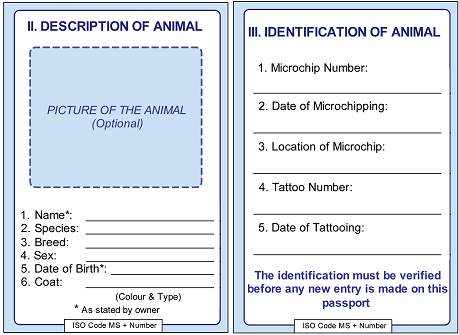
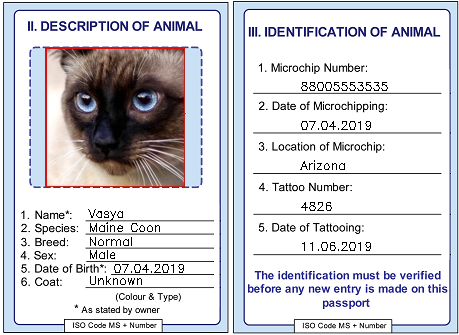
practice1

diff --git a/practice/1_opencv/cat_passport.py b/practice/1_opencv/cat_passport.py
@@ -1,3 +1,4 @@
+import sys
 import argparse
 import cv2
 
@@ -6,22 +7,68 @@ def make_cat_passport_image(input_image_path, haar_model_path):
 
     # Read image
 
+    image = cv2.imread(input_image_path)
+
     # Convert image to grayscale
 
+    gray = cv2.cvtColor(image, cv2.COLOR_BGR2GRAY)
+
     # Normalize image intensity
+
+    gray = cv2.equalizeHist(gray)
 
     # Resize image
 
     # Detect cat faces using Haar Cascade
 
+    detector = cv2.CascadeClassifier(haar_model_path)
+    rects = detector.detectMultiScale(gray, scaleFactor=1.1, minNeighbors=5, minSize=(75, 75))
+
     # Draw bounding box
+
+    for (i, (x, y, w, h)) in enumerate(rects):
+        cv2.rectangle(image, (x, y), (x + w, y + h), (0, 0, 255), 2)
+        cv2.putText(image, "Cat #{}".format(i + 1), (x, y - 10),
+                    cv2.FONT_HERSHEY_SIMPLEX, 0.55, (0, 0, 255), 2)
 
     # Display result image
 
+    cv2.imshow("window_name", image)
+    cv2.waitKey(0)
+    cv2.destroyAllWindows()
+
     # Crop image
+
+    x, y, w, h = rects[0]
+    image = image[y:y + h, x:x + w]
 
     # Save result image to file
 
+    cv2.imwrite('out.jpg', image)
+
+    image = cv2.imread('pet_passport.png')
+    src = cv2.imread('out.jpg')
+    image[47:47+src.shape[0], 45:45+src.shape[1]] = src
+
+    cv2.putText(image, "Vasya", (88, 217), cv2.FONT_HERSHEY_SIMPLEX, 0.4, (0, 0, 0), 1)
+    cv2.putText(image, "Maine Coon", (88, 231), cv2.FONT_HERSHEY_SIMPLEX, 0.4, (0, 0, 0), 1)
+    cv2.putText(image, "Normal", (88, 245), cv2.FONT_HERSHEY_SIMPLEX, 0.4, (0, 0, 0), 1)
+    cv2.putText(image, "Male", (88, 258), cv2.FONT_HERSHEY_SIMPLEX, 0.4, (0, 0, 0), 1)
+    cv2.putText(image, "07.04.2019", (113, 272), cv2.FONT_HERSHEY_SIMPLEX, 0.4, (0, 0, 0), 1)
+    cv2.putText(image, "Unknown", (88, 284), cv2.FONT_HERSHEY_SIMPLEX, 0.4, (0, 0, 0), 1)
+
+    cv2.putText(image, "88005553535", (300, 90), cv2.FONT_HERSHEY_SIMPLEX, 0.4, (0, 0, 0), 1)
+    cv2.putText(image, "07.04.2019", (300, 129), cv2.FONT_HERSHEY_SIMPLEX, 0.4, (0, 0, 0), 1)
+    cv2.putText(image, "Arizona", (300, 169), cv2.FONT_HERSHEY_SIMPLEX, 0.4, (0, 0, 0), 1)
+    cv2.putText(image, "4826", (300, 210), cv2.FONT_HERSHEY_SIMPLEX, 0.4, (0, 0, 0), 1)
+    cv2.putText(image, "11.06.2019", (300, 250), cv2.FONT_HERSHEY_SIMPLEX, 0.4, (0, 0, 0), 1)
+
+    cv2.imshow("window_name", image)
+    cv2.waitKey(0)
+    cv2.destroyAllWindows()
+
+    cv2.imwrite('pet_passport.png', image)
+    print("I saved everything!")
     return
 
 
